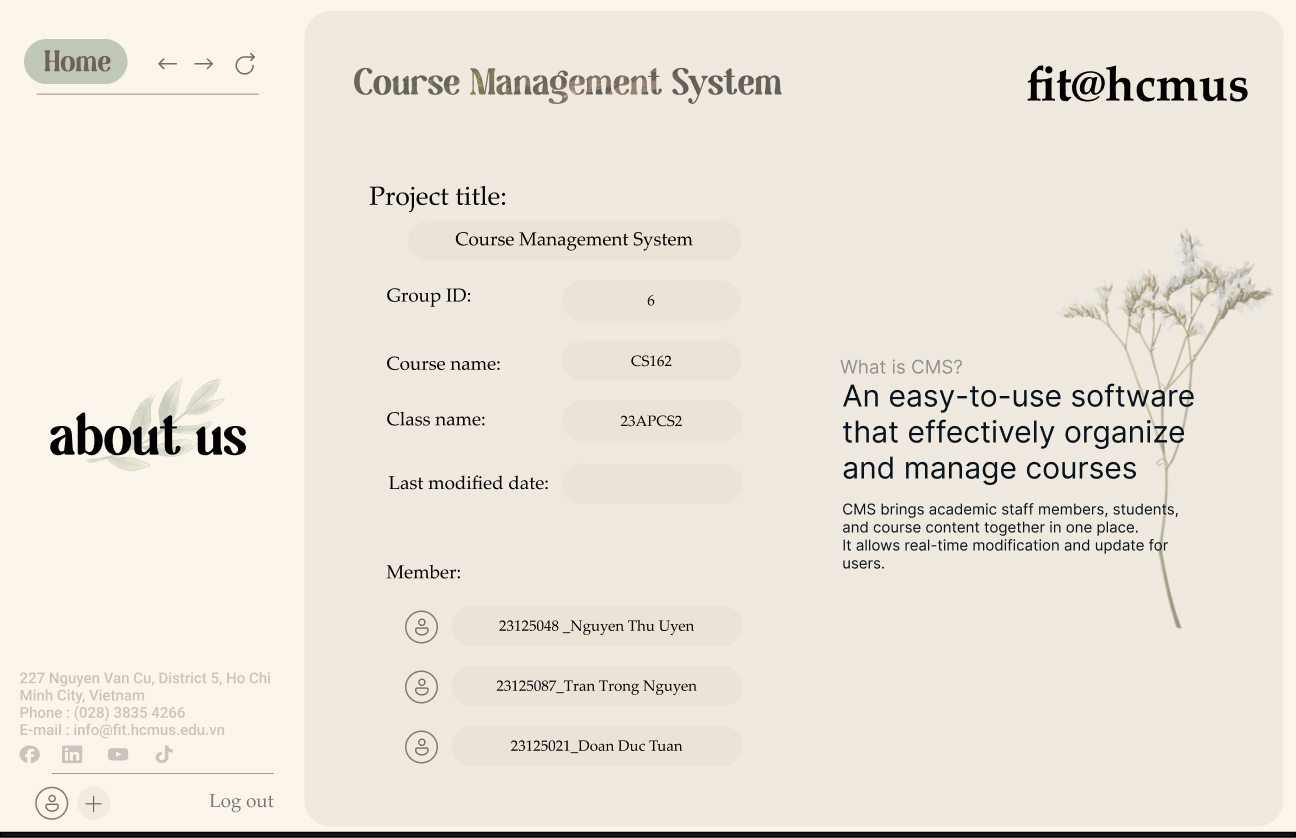
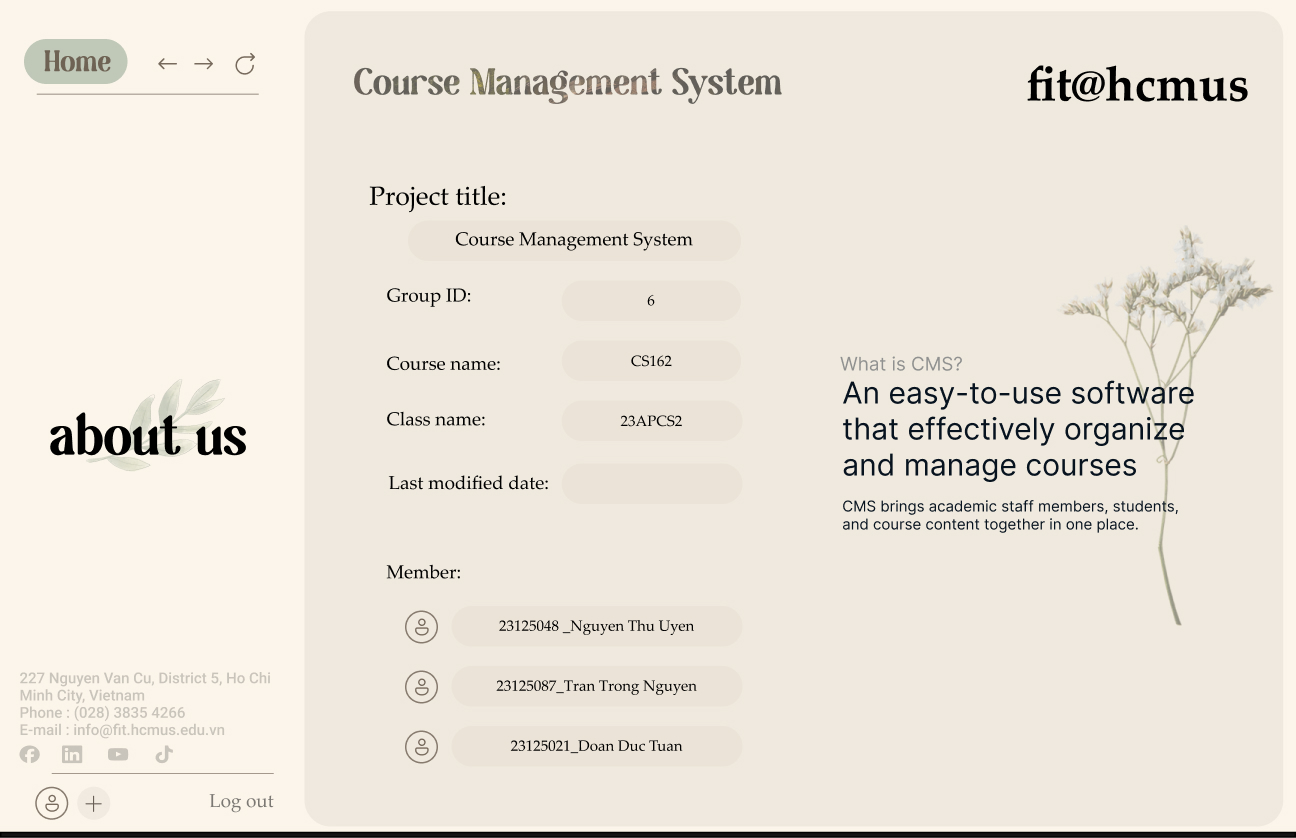
Update Additional Structs
I update some needed struct such as Date, change About us description and add Final Project Report template.

Changed region(s): [[0.6481, 0.2792, 0.9877, 0.6826]]

diff --git a/Project/AdditionalStruct.h b/Project/AdditionalStruct.h
@@ -1,0 +1,83 @@
+
+
+
+#include <iostream>
+#include <string>
+#include <time.h>
+
+struct Date {
+	int day;
+	int month;
+	int year;
+
+
+	Date(int d = 0, int m = 0, int y = 0) : day(d), month(m), year(y) {} // Constructor with default parameters
+
+	void setDate(int d, int m, int y)
+	{
+		day = d;
+		month = m;
+		year = y;
+	}
+
+	static Date getCurrentDate()
+	{
+		time_t t = time(0);
+		struct tm now;
+		localtime_s(&now, &t);
+		int day = now.tm_mday;
+		int month = now.tm_mon + 1;
+		int year = now.tm_year + 1900;
+		return Date(day, month, year);
+	}
+
+
+	friend bool operator==(const Date& d1, const Date& d2)
+	{
+		return (d1.day == d2.day && d1.month == d2.month && d1.year == d2.year);
+	}
+
+
+	friend bool operator<(const Date& d1, const Date& d2)
+	{
+		if (d1.year < d2.year) {
+			return true;
+		}
+		else if (d1.year == d2.year) {
+			if (d1.month < d2.month) {
+				return true;
+			}
+			else if (d1.month == d2.month) {
+				if (d1.day < d2.day) {
+					return true;
+				}
+			}
+		}
+		return false;
+	}
+
+	friend bool operator>(const Date& d1, const Date& d2)
+	{
+		if (d1 < d2 || d1 == d2) {
+			return false;
+		}
+		return true;
+	}
+
+};
+
+struct Name {
+    std::string firstName;
+    std::string lastName;
+    Name(const std::string& s1 = "", const std::string& s2 = "") : firstName(s1), lastName(s2) {} // Constructor with default parameters
+};
+
+int getTimeInMinute(std::string time) {
+	std::stringstream s(time);
+	int hour, minute;
+	s >> hour;
+	s.ignore(100, ':');
+	s >> minute;
+	minute += hour * 60;
+	return minute;
+}

diff --git a/Project/Student.h b/Project/Student.h
@@ -2,17 +2,7 @@
 #define STUDENT_H
 
 #include <string>
-
-struct Date {
-    int day, month, year;
-    Date(int d = 0, int m = 0, int y = 0) : day(d), month(m), year(y) {} // Constructor with default parameters
-};
-
-struct Name {
-    std::string firstName;
-    std::string lastName;
-    Name(const std::string& s1 = "", const std::string& s2 = "") : firstName(s1), lastName(s2) {} // Constructor with default parameters
-};
+#include "AdditionalStruct.h"
 
 class Student {
 public:
